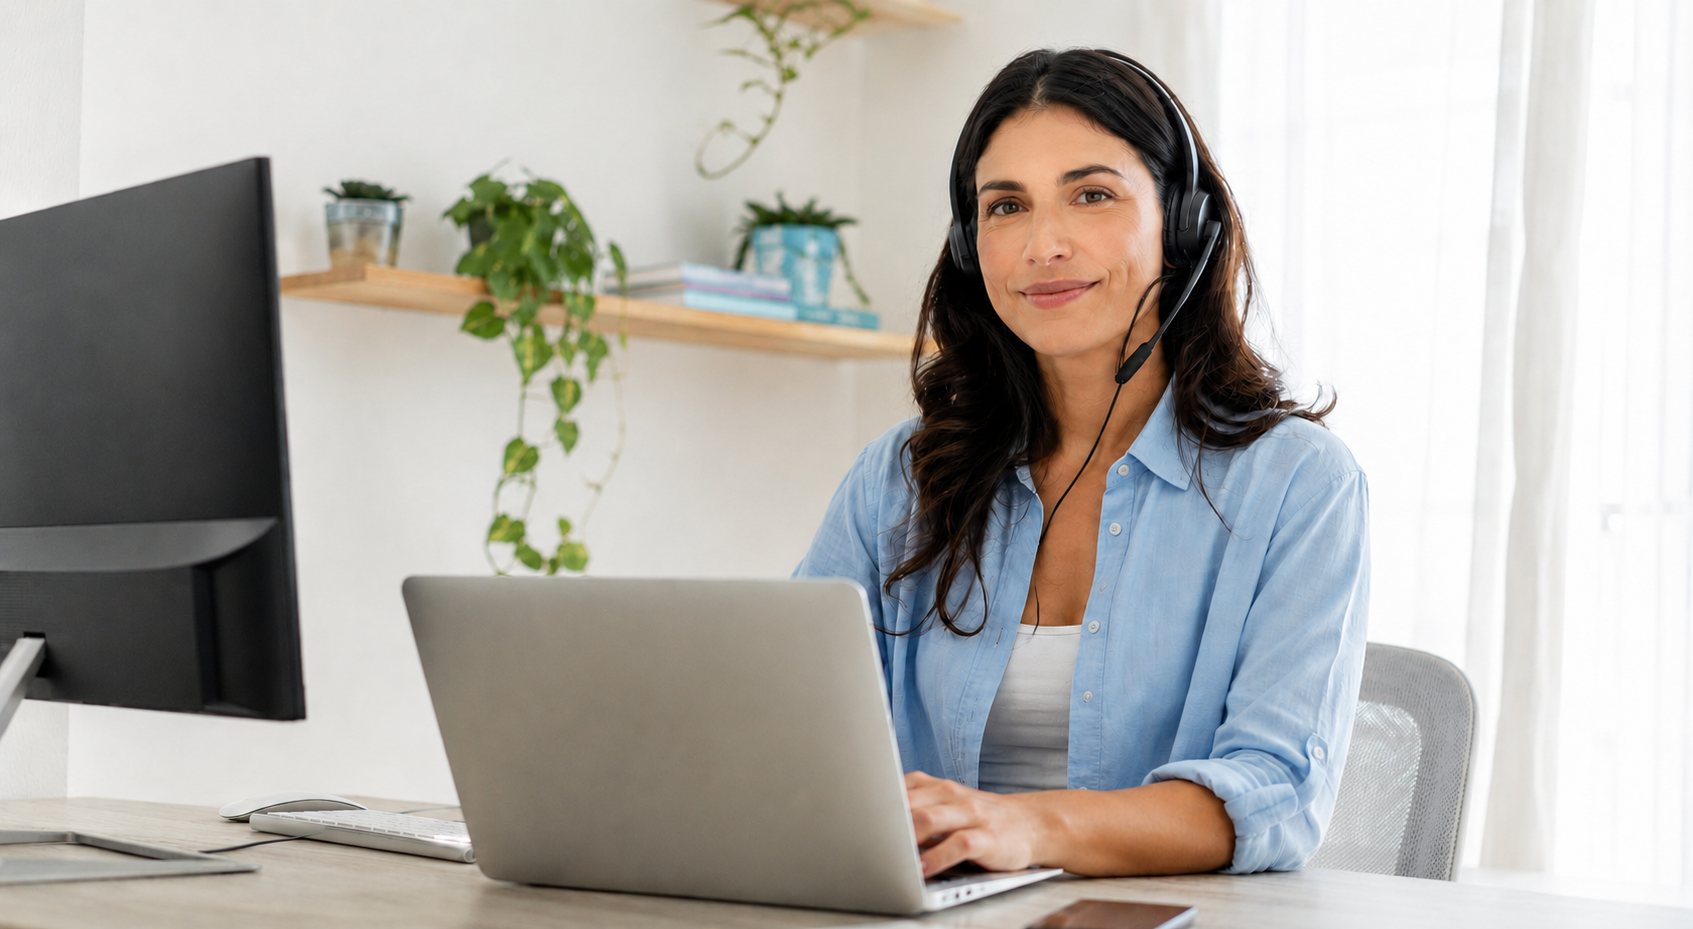
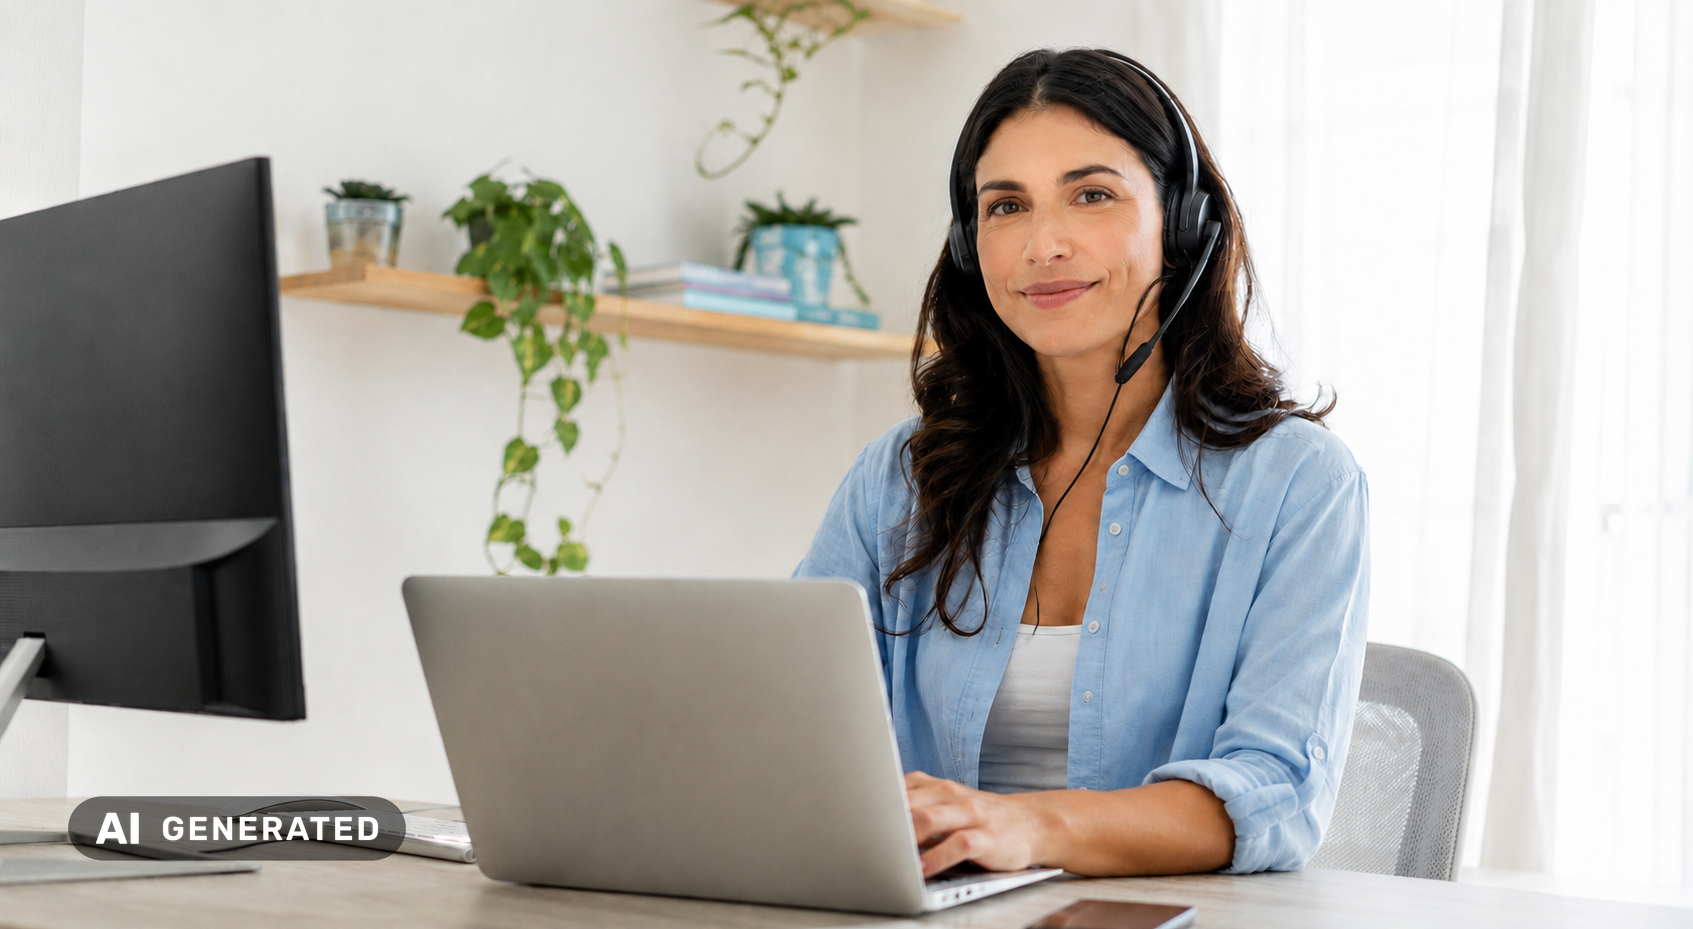
KI-Kennzeichnung (AI GENERATED) auf Bildern mit Menschen ergänzen
Das Badge ist direkt in die Bilddateien eingebaut (damit es auch in
Blog-Artikeln und Social-Previews erscheint). Grafiken, Icons, Infografiken
und Bilder ohne Personen sowie die Team-Fotos bleiben ohne Badge.
scripts/add-ai-badge.py und eine Regel in CLAUDE.md für neue Bilder.

Changed region(s): [[0.0307, 0.8428, 0.2457, 0.9365]]

diff --git a/scripts/add-ai-badge.py b/scripts/add-ai-badge.py
@@ -1,0 +1,57 @@
+#!/usr/bin/env python3
+"""Setzt das "AI GENERATED"-Badge in eine Ecke eines Bildes (in place).
+
+Aufruf: python3 scripts/add-ai-badge.py <bild> [bl|br|tl|tr|strip] [breite=0.20]
+"strip" hängt unten einen Streifen in der Randfarbe an (für Infografiken mit Text bis zum Rand).
+Einmal pro Bild ausführen. Bereits gekennzeichnete PNG/JPG werden übersprungen.
+"""
+import sys
+from pathlib import Path
+from PIL import Image, PngImagePlugin
+
+BADGE = Path(__file__).parent / "assets" / "ai-generated-badge.png"
+MARKER = "ai-badge"
+
+
+def apply(path, corner="bl", out=None, size=0.20):
+    path = Path(path)
+    im = Image.open(path)
+    if im.info.get(MARKER) or im.info.get("comment") == MARKER.encode():
+        print(f"skip (schon gekennzeichnet): {path}")
+        return
+    fmt = im.format
+    had_alpha = im.mode in ("RGBA", "LA") or "transparency" in im.info
+    base = im.convert("RGBA")
+    w, h = base.size
+    badge = Image.open(BADGE).convert("RGBA")
+    bw = max(int(w * size), 150)
+    bw = min(bw, int(w * 0.6))
+    bh = round(badge.height * bw / badge.width)
+    badge = badge.resize((bw, bh), Image.LANCZOS)
+    m = round(max(w * 0.04, 12))
+    if corner == "strip":
+        row = [base.getpixel((i, h - 1)) for i in range(0, w, max(w // 200, 1))]
+        col = tuple(sorted(c[k] for c in row)[len(row) // 2] for k in range(4))
+        strip = bh + m
+        canvas = Image.new("RGBA", (w, h + strip), col)
+        canvas.paste(base, (0, 0))
+        base, h = canvas, h + strip
+        corner = "bl"
+        m = m // 2 + m // 4
+    x = m if corner[1] == "l" else w - bw - m
+    y = m if corner[0] == "t" else h - bh - m
+    base.alpha_composite(badge, (x, y))
+    out = Path(out or path)
+    if fmt == "PNG":
+        meta = PngImagePlugin.PngInfo()
+        meta.add_text(MARKER, "1")
+        (base if had_alpha else base.convert("RGB")).save(out, "PNG", pnginfo=meta, optimize=True)
+    elif fmt == "JPEG":
+        base.convert("RGB").save(out, "JPEG", quality=90, comment=MARKER.encode())
+    else:
+        base.save(out, quality=90)
+    print(f"ok: {out} ({corner})")
+
+
+if __name__ == "__main__":
+    apply(sys.argv[1], sys.argv[2] if len(sys.argv) > 2 else "bl", size=float(sys.argv[3]) if len(sys.argv) > 3 else 0.20)

diff --git a/CLAUDE.md b/CLAUDE.md
@@ -21,6 +21,7 @@
 - Die 3 Kursseiten (Büromanagement, Industriekaufmann, Bankkaufmann) haben `src/lib/kurse-data.ts` als einzige Datenquelle (`KURSE`-Array, `Kurs`-Typ, `findeKurs()`).
 - Blog-Artikel liegen in `src/lib/blog-data.ts` (`POSTS`-Array), `content` ist ein HTML-String (`<h2>`, `<p>`, `<ul>/<li>`, `<blockquote>`, `<strong>`, inline `<img>` für Zwischenbilder). Vor einem neuen Artikel immer erst prüfen, ob es nicht schon einen Beitrag zum gleichen Thema gibt (Slug/Titel abgleichen) — bei einer Aktualisierung lieber den bestehenden Post in-place ersetzen (gleicher Slug) statt zu duplizieren.
 - Bilder aus SharePoint/lokalen Ordnern werden nach `public/images/...` kopiert (URL-sichere, transliterierte Dateinamen: ä→ae, ö→oe, ü→ue, keine Leer-/Sonderzeichen) und über `next/image` bzw. `<img>` referenziert — keine rohen Dateipfade mit Leerzeichen/Sonderzeichen committen.
+- Alle Bilder auf der Website sind KI-generiert. Bilder, auf denen Menschen (oder Körperteile wie Hände) zu sehen sind, müssen das „AI GENERATED“-Badge tragen; Icons, Grafiken, Infografiken und Bilder ohne Personen nicht (Texte ohnehin nicht). Neues Bild vor dem Einbinden einmalig mit `python3 scripts/add-ai-badge.py public/images/<pfad> [bl|br|tl|tr|strip] [breite=0.20]` kennzeichnen. Bei klein dargestellten Bildern die Breite erhöhen (z. B. 0.45). Ausgenommen: Logos, Icons und die Team-Fotos in `public/images/team/`.
 
 ## Sonstiges
 - `AGENTS.md` enthält eine (falsche) Behauptung, dies sei eine geänderte Next.js-Version — das ist nicht der Fall, ignorieren.
